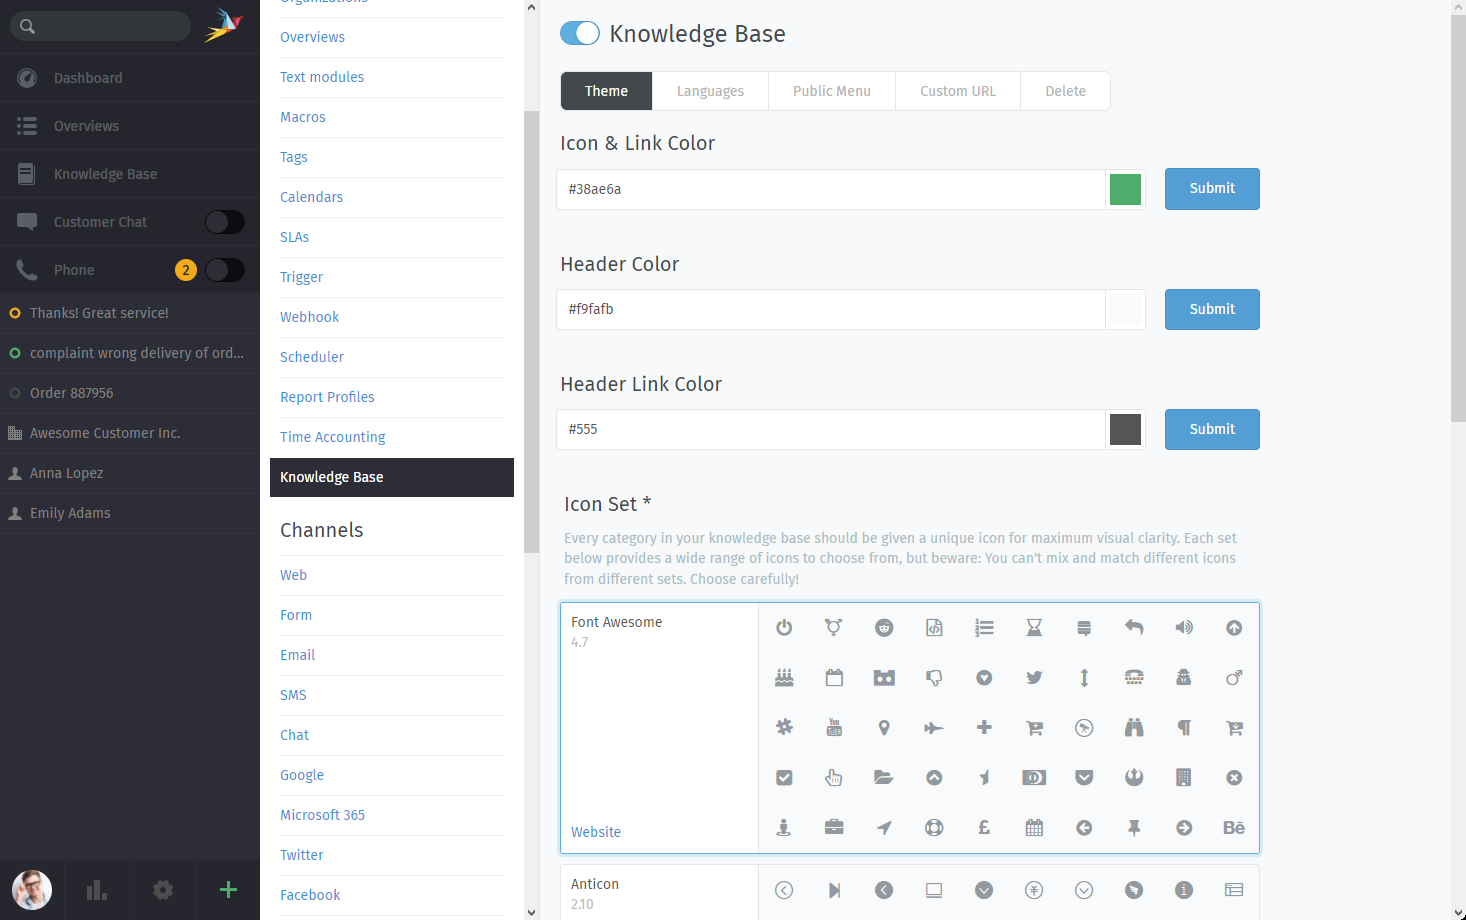
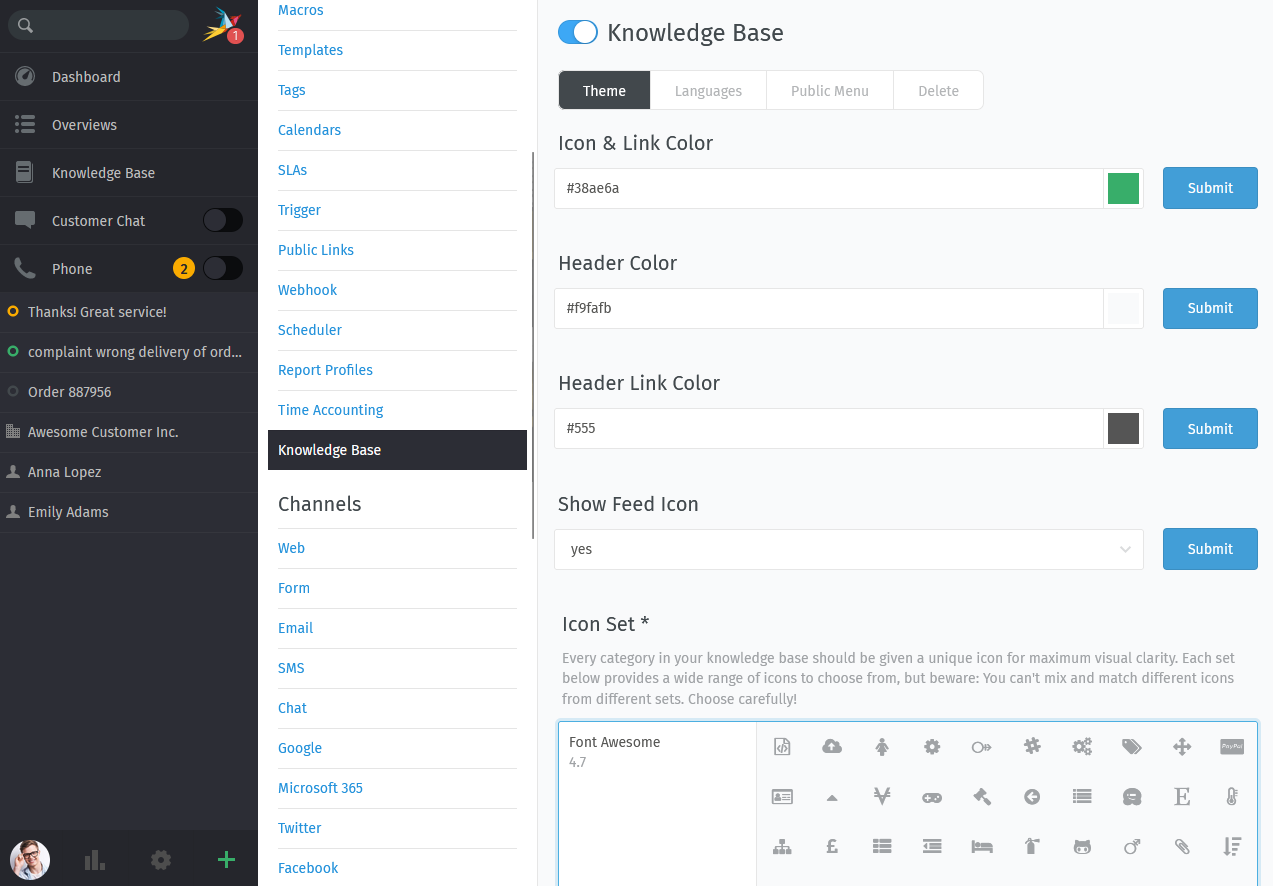
Add RSS feed option for KB

diff --git a/manage/knowledge-base.rst b/manage/knowledge-base.rst
@@ -71,6 +71,23 @@ Theme
    Defines the color of the header links to use.
    Make sure that this color has a proper contrast to *Header Color*.
 
+:Show Feed Icon:
+   You can enable Zammad to provide RSS feed URLs in both internal and public
+   knowledge base. With this option being active, Zammad will provide you
+   up to two RSS links:
+
+      * a general RSS feed of the whole knowledge base (top level)
+      * a category specific RSS feed of the category you're in
+        (also applies to answers you're viewing)
+
+   This setting by default is set to ``no``.
+
+   .. hint::
+
+      Your agents will receive special RSS feed URLs with **access tokens**.
+      Agents can always renew these. Keep in mind that sharing these URLs
+      with third parties may provide access to **internal** answers!
+
 :Icon Set:
    Defines the selection of icons that may be used when creating/editing
    categories.
